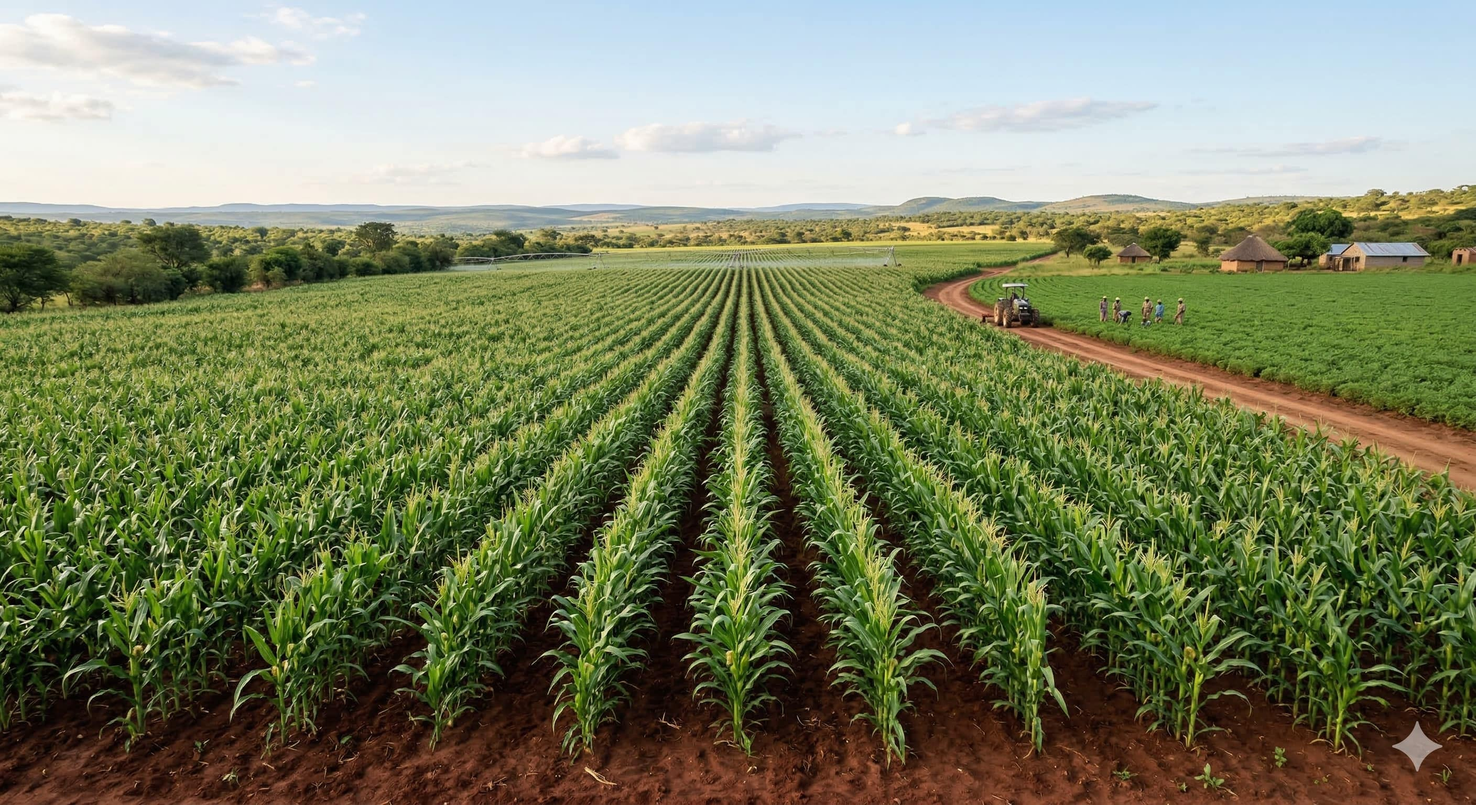
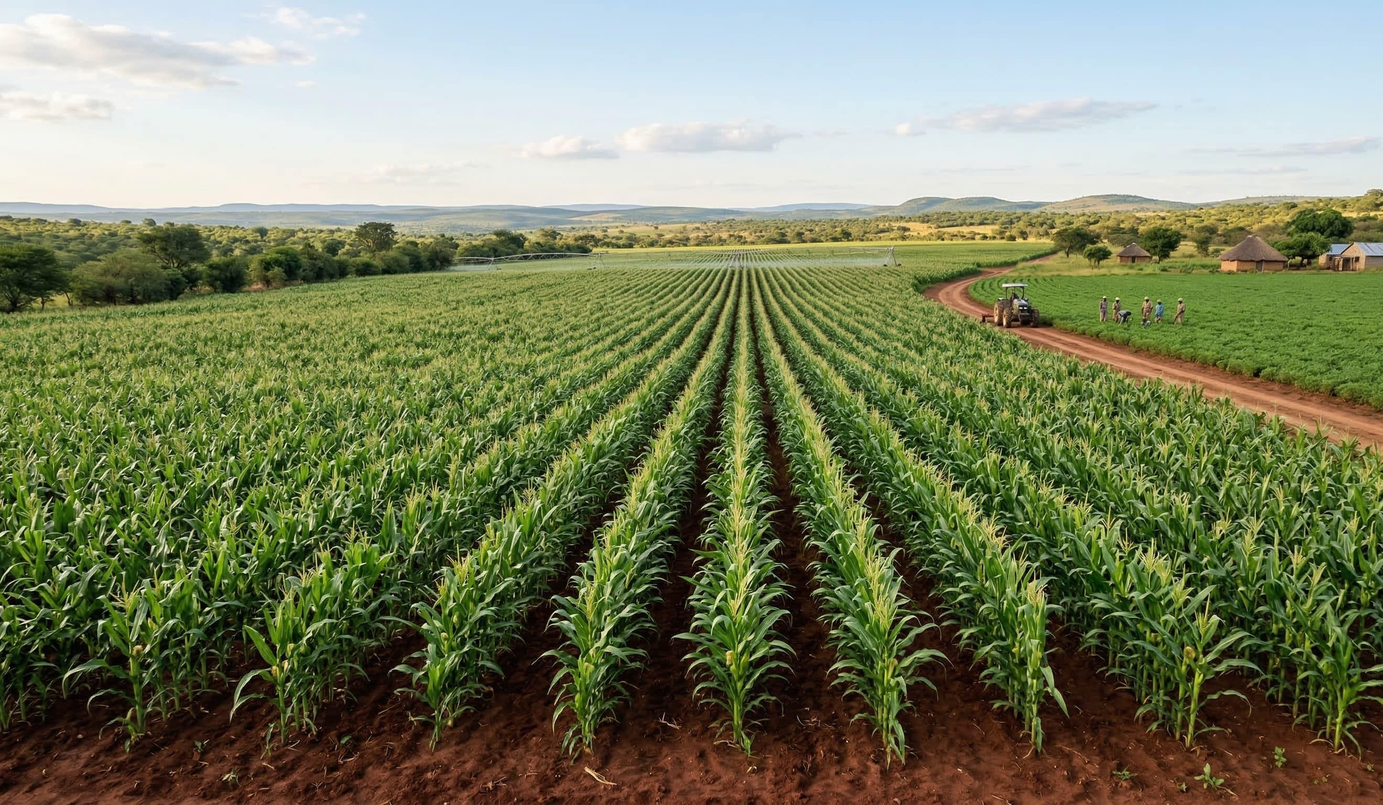
update

diff --git a/frontend/src/App.jsx b/frontend/src/App.jsx
@@ -814,14 +814,14 @@ function AppFrame({ langCode, currentPage, children, lowData, setLowData }) {
           <strong className="brand">Zim-Agro</strong>
           <div className="header-right">
             <div className="header-actions no-print">
-              <label className="toggle">
+              {/* <label className="toggle">
                 <input
                   type="checkbox"
                   checked={lowData}
                   onChange={(event) => setLowData(event.target.checked)}
                 />
                 <span>{t.lowData}</span>
-              </label>
+              </label> */}
               <button type="button" className="save-btn" onClick={() => window.print()}>
                 {t.saveField}
               </button>
